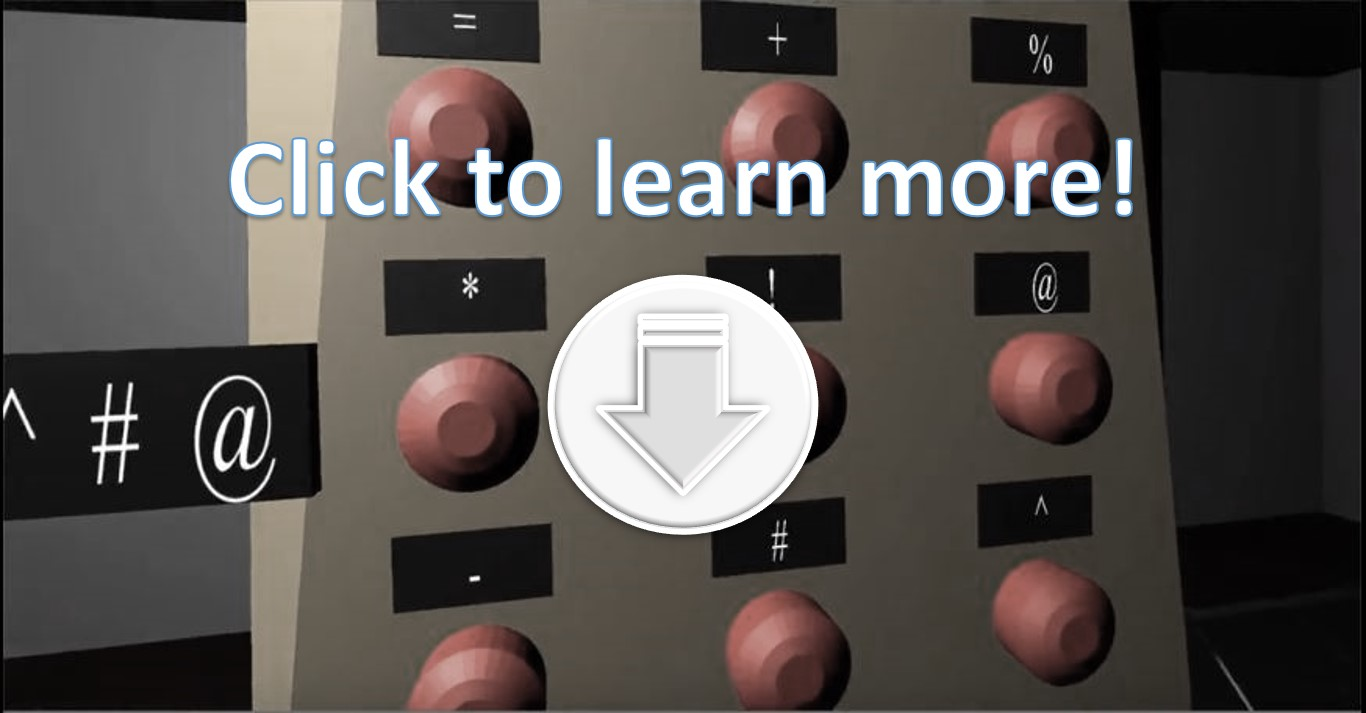
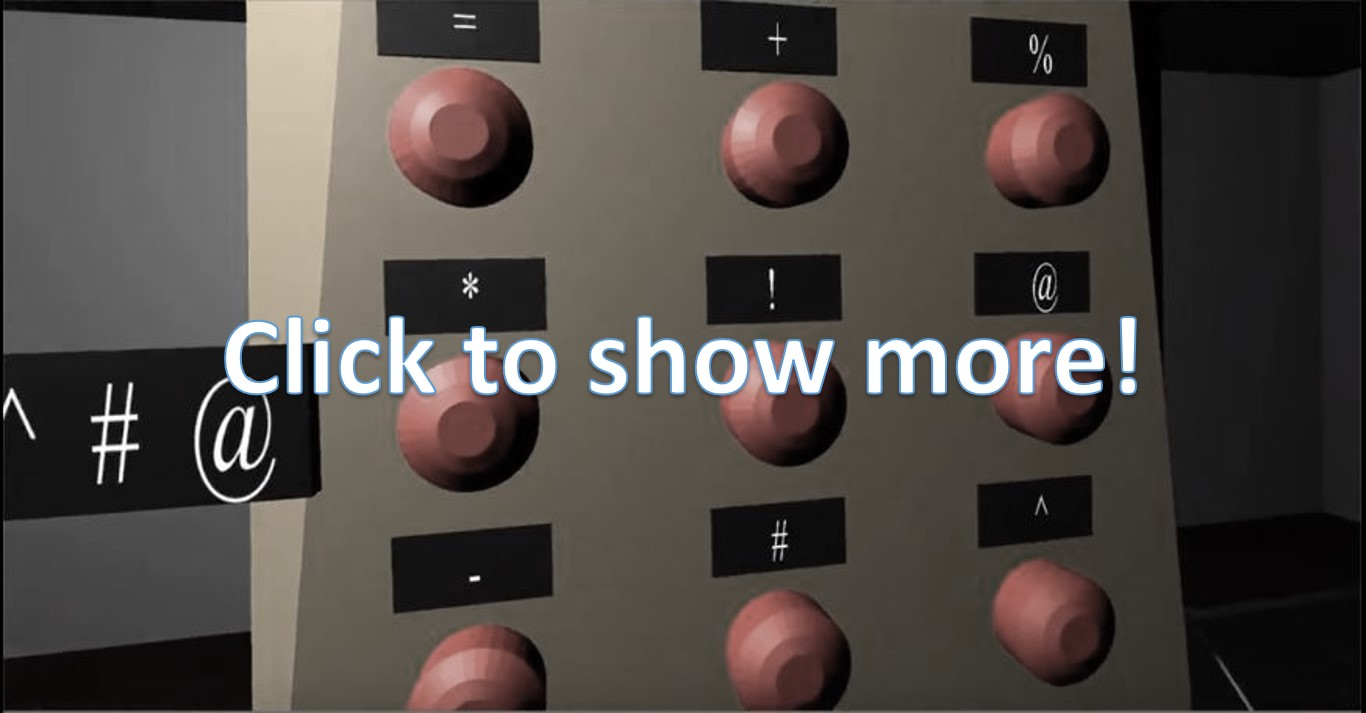
Readded all images.

Changed region(s): [[0.1537, 0.3703, 0.8302, 0.7714], [0.1537, 0.1851, 0.8302, 0.3086]]

diff --git a/index.html b/index.html
@@ -63,7 +63,7 @@ $(document).ready(function(){
 			<div id="projectHead1">
 				<a class="subProjectImage">
 				<h3>Because It's There</h3>
-				<img id="BecauseItsThere" class="subProjectImage" src="BecauseItsThereImage.jpg" alt="GamePictures" style="width:300px;height:200px;border:50px;">
+				<img id="BecauseItsThere" class="subProjectImage" src="images/BecauseItsThereImageHover.jpg" alt="GamePictures" style="width:300px;height:200px;border:50px;">
 				</a>
 			</div>
 			<div  id="projectInfo1">
